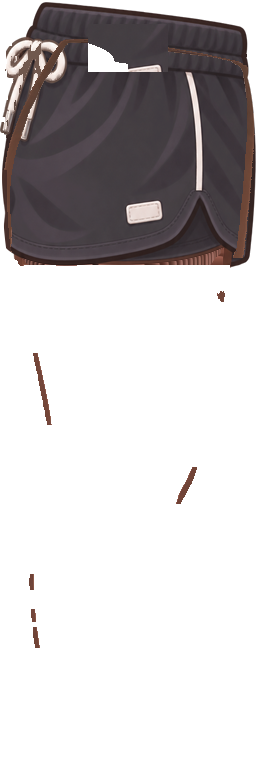
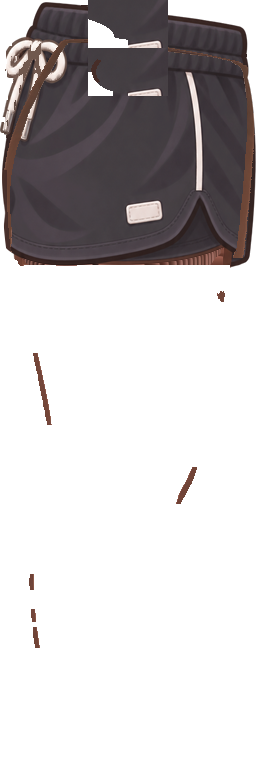
fix: 달리기 엉덩이 잇기 칸을 남녀로 나누고 남자 칸 등 뒤를 둥글게 외곽선을 입힌다 [S15P31A207-300]
- 남녀 리그가 엉덩이 잇기 메시를 다르게 휘어(표지 색 렌더: 남자는 이 메시가 뒤 실루엣을 만들고, 여자는 등 쪽이 다리 윗부분 안쪽에 겹친다)
  칸을 나눈다: 여자 x 88~167·y 0~47, 남자 y 48~95. RivHipConnection은 여자·남자 riv 꼭짓점 v를 각각 옮긴다(파일은 승인본 그대로).
  판정 렌더 retarget_rml은 성별을 받는다.
- 여자 칸은 지금 모양(등 쪽 곡선 깎기, 외곽선 없음). 남자 칸은 등 아래 모서리만 조금 깎고(여자처럼 깎으면 배경 삼각형) 등 가운데 둘레에
  짙은 외곽선을 칠해 뒤 허리 계단·홈을 둥근 외곽선으로 바꾼다.

Changed region(s): [[0.3438, 0.0, 0.6562, 0.125]]

diff --git a/android/core/avatar/src/main/java/com/a207/runkk/app/core/avatar/RivHipConnection.kt b/android/core/avatar/src/main/java/com/a207/runkk/app/core/avatar/RivHipConnection.kt
@@ -6,14 +6,16 @@ import java.nio.ByteOrder
 /**
  * 달리기 엉덩이 잇기 메시(Image 「Cloth textured hip connection」, 타원 윤곽 꼭짓점 17개)가 하의 달리기 다리 텍스처(run_leg)의 어느 칸을
  * 쓸지 바꾼다(판정 round1 C). 승인 riv는 천 가운데 조각(v 약 0.209~0.271 = y 160~208)을 써서 엉덩이 뒷면에 외곽선이 없고, 같은 칸을
- * 앞 다리 메시도 허벅지에 써서 거기에 외곽선을 그릴 수 없었다. 꼭짓점 v만 [V_SHIFT](136/768)만큼 위로 옮겨, 다리 메시가 화면에 쓰지
- * 않는 칸(y 24~72)을 쓰게 한다. 하의 레이어는 그 칸에 원래 조각과 등 쪽 외곽선을 그려 둔다(파이프라인 `outfit_pipeline/hip.py`).
+ * 앞 다리 메시도 허벅지에 써서 거기에 외곽선을 그릴 수 없었다. 꼭짓점 v만 위로 옮겨 다리 메시가 화면에 쓰지 않는 칸을 쓰게 한다:
+ * 남녀 리그가 이 메시를 다르게 휘어 칸을 나눈다(여자 y 0~47 [FEMALE_V_SHIFT], 남자 y 48~95 [MALE_V_SHIFT]). 하의 레이어는 그 칸에
+ * 원래 조각을 옮기고 등 쪽을 깎아 둔다(파이프라인 `outfit_pipeline/hip.py`).
  * 파일은 승인본(SHA 시험) 그대로 두고 읽은 바이트에서 바꾼다([RivGroundShadow]와 같은 방식). 위치 표는 파이프라인
  * `vertex_v_offsets`가 riv에서 찾은 값이고(파이썬 시험이 이 표와 맞는지 본다), 바꾸기 전 값이 승인 범위(0.2~0.28)가 아니면 그 파일은
  * 그대로 둔다.
  */
 internal object RivHipConnection {
-    const val V_SHIFT = 0.17708333333333334f
+    const val FEMALE_V_SHIFT = 0.20833333333333334f
+    const val MALE_V_SHIFT = 0.14583333333333334f
 
     /** avatar_run_approved.riv(여자 달리기) 꼭짓점 v 위치(바이트, float32 리틀엔디언). */
     internal val FEMALE_OFFSETS = intArrayOf(
@@ -31,9 +33,10 @@ internal object RivHipConnection {
 
     /** [riv]가 승인 달리기 riv면 엉덩이 잇기 꼭짓점 v를 옮긴다(바로 고친다). 아니면 그대로 둔다. */
     fun retargetInPlace(riv: ByteArray) {
-        val offsets = listOf(FEMALE_OFFSETS, MALE_OFFSETS).firstOrNull { matches(riv, it) } ?: return
+        val (offsets, shift) = listOf(FEMALE_OFFSETS to FEMALE_V_SHIFT, MALE_OFFSETS to MALE_V_SHIFT)
+            .firstOrNull { matches(riv, it.first) } ?: return
         val buffer = ByteBuffer.wrap(riv).order(ByteOrder.LITTLE_ENDIAN)
-        offsets.forEach { buffer.putFloat(it, buffer.getFloat(it) - V_SHIFT) }
+        offsets.forEach { buffer.putFloat(it, buffer.getFloat(it) - shift) }
     }
 
     private fun matches(riv: ByteArray, offsets: IntArray): Boolean {

diff --git a/android/core/avatar/src/test/kotlin/com/a207/runkk/app/core/avatar/RivHipConnectionTest.kt b/android/core/avatar/src/test/kotlin/com/a207/runkk/app/core/avatar/RivHipConnectionTest.kt
@@ -12,10 +12,10 @@ class RivHipConnectionTest {
     private val raw = File("src/main/res/raw")
 
     @Test
-    fun `달리기 riv 두 개는 엉덩이 잇기 꼭짓점 v 17개만 V_SHIFT만큼 줄고 나머지 바이트는 그대로다`() {
-        for ((name, offsets) in listOf(
-            "avatar_run_approved" to RivHipConnection.FEMALE_OFFSETS,
-            "avatar_male_run" to RivHipConnection.MALE_OFFSETS
+    fun `달리기 riv 두 개는 엉덩이 잇기 꼭짓점 v 17개만 성별 칸만큼 줄고 나머지 바이트는 그대로다`() {
+        for ((name, offsets, shift) in listOf(
+            Triple("avatar_run_approved", RivHipConnection.FEMALE_OFFSETS, RivHipConnection.FEMALE_V_SHIFT),
+            Triple("avatar_male_run", RivHipConnection.MALE_OFFSETS, RivHipConnection.MALE_V_SHIFT)
         )) {
             val original = File(raw, "$name.riv").readBytes()
             val patched = original.copyOf().also(RivHipConnection::retargetInPlace)
@@ -25,7 +25,7 @@ class RivHipConnectionTest {
             offsets.forEach {
                 val v = before.getFloat(it)
                 assertTrue(v in 0.2f..0.28f, "$name 원래 v $v")
-                assertEquals(v - RivHipConnection.V_SHIFT, after.getFloat(it), 1e-6f)
+                assertEquals(v - shift, after.getFloat(it), 1e-6f)
             }
             val allowed = offsets.flatMap { (it until it + 4).toList() }.toSet()
             assertEquals(emptyList(), original.indices.filter { original[it] != patched[it] && it !in allowed })

diff --git a/android/core/avatar/src/test/kotlin/com/a207/runkk/app/core/avatar/OutfitAssetSpecTest.kt b/android/core/avatar/src/test/kotlin/com/a207/runkk/app/core/avatar/OutfitAssetSpecTest.kt
@@ -266,12 +266,12 @@ class OutfitAssetSpecTest {
                     val pixels = IntArray(image.width * image.height)
                     image.getPixels(pixels, 0, image.width, 0, 0, image.width, image.height)
                     val holes = StrayPixels.holes(pixels, image.width, image.height)
-                    // 달리기 다리의 엉덩이 잇기 칸(x 88~167, y 24~71)은 등 아래를 일부러 깎는다(파이프라인 hip.hip_box, 판정 round3 C)
+                    // 달리기 다리의 엉덩이 잇기 칸(남녀 x 88~167, y 0~95)은 등 아래를 일부러 깎는다(파이프라인 hip.hip_box, 판정 round3 C)
                     val hip = slot == OutfitSlot.RUN_LEG
                     val count = holes.indices.count { i ->
                         val x = i % image.width
                         val y = i / image.width
-                        val inHip = hip && x in 88 until 168 && y in 24 until 72
+                        val inHip = hip && x in 88 until 168 && y in 0 until 96
                         holes[i] && !inHip && allowed.all { on(it, x, y) }
                     }
                     if (count > 0) found["${file.parentFile!!.name}/${file.name} $template"] = count

diff --git a/android/core/avatar/tools/outfit-pipeline/outfit_pipeline/hip.py b/android/core/avatar/tools/outfit-pipeline/outfit_pipeline/hip.py
@@ -1,12 +1,13 @@
-"""달리기 엉덩이 잇기 메시(판정 round1 C).
+"""달리기 엉덩이 잇기 메시(판정 round1~5 C).
 
 승인 달리기 riv(avatar_run_approved, avatar_male_run)의 Image 「Cloth textured hip connection」은 타원 메시(윤곽 꼭짓점 16개)로 하의
 달리기 다리 텍스처(run_leg, 256x768)의 가운데 조각(u 0.344~0.656, v 약 0.209~0.271 = x 88~168, y 160~208)을 몸통과 다리 사이에
-붙인다. 그 조각은 천 가운데라 외곽선이 없고, 같은 자리를 앞쪽 다리 메시도 허벅지에 써서 거기에 외곽선을 그리면 허벅지에도 선이 생긴다.
+붙인다. 그 조각은 천 가운데라 외곽선이 없고, 같은 자리를 앞쪽 다리 메시도 허벅지에 써서 거기를 고치면 허벅지도 바뀐다.
 
-그래서 메시 v만 다리 메시가 화면에 쓰지 않는 칸(텍스처 위쪽 y 0~95, 몸통·엉덩이에 가려 보이지 않는다. 판정 렌더 4프레임 × 남녀로
-16x16 칸마다 실측)으로 옮기고([V_SHIFT]), 하의마다 그 칸에 원래 조각을 옮겨 그린 뒤 타원 둘레에 짙은 외곽선을 그린다([paint_hip]).
-riv 파일은 승인본(SHA 시험) 그대로 두고, 앱은 읽은 바이트에서 그 꼭짓점 v만 바꾼다(RivHipConnection, [vertex_v_offsets]로 만든 표).
+그래서 메시 v만 다리 메시가 화면에 쓰지 않는 칸(텍스처 위쪽 x 88~167, y 0~95: 판정 렌더 4프레임 × 남녀로 16x16 칸마다 실측)으로 옮기고,
+남녀 리그가 이 메시를 다르게 휘므로 칸을 나눈다(여자 y 0~47, 남자 y 48~95, [TARGET_TOPS]). 하의마다 두 칸에 원래 조각을 옮기고([paint_hip])
+등 쪽을 깎는다([carve_hip]). riv 파일은 승인본(SHA 시험) 그대로 두고, 앱은 읽은 바이트에서 그 꼭짓점 v만 바꾼다(RivHipConnection,
+[vertex_v_offsets]로 만든 표). 판정 렌더는 Rive 원본의 같은 꼭짓점을 옮긴다([retarget_rml]).
 """
 
 from __future__ import annotations
@@ -22,15 +23,19 @@ from outfit_pipeline.riv_schema import PROPERTY_FORMAT
 
 IMAGE_NAME = "Cloth textured hip connection"
 SOURCE = (88, 160, 168, 208)  # 원래 메시가 쓰던 텍스처 칸(x0, y0, x1, y1)
-TARGET_TOP = 24  # 옮길 칸 위 끝(텍스처 y). 아래 끝은 TARGET_TOP + 48
+# 옮길 칸 위 끝(텍스처 y, 아래 끝은 + 48). 남녀 리그가 이 메시를 다르게 휘어 화면에서 맡는 몫이 달라(여자는 다리 윗부분 안쪽에 겹치고
+# 남자는 뒤 실루엣을 만든다) 남녀 칸을 나눈다(판정 round5)
+TARGET_TOPS = {"female": 0, "male": 48}
+RIV_GENDER = {"avatar_run_approved.riv": "female", "avatar_male_run.riv": "male"}
 HEIGHT = 768
-V_SHIFT = (SOURCE[1] - TARGET_TOP) / HEIGHT  # 꼭짓점 v에서 뺄 값(160 → 24)
+V_SHIFTS = {g: (SOURCE[1] - top) / HEIGHT for g, top in TARGET_TOPS.items()}  # 꼭짓점 v에서 뺄 값
 _TOC_FORMAT = ("u", "s", "f", "c")
 
 
 def hip_box() -> tuple[int, int, int, int]:
-    """엉덩이 잇기 메시가 쓰는 칸(x0, y0, x1, y1, 끝 제외)."""
-    return (SOURCE[0], TARGET_TOP, SOURCE[2], TARGET_TOP + SOURCE[3] - SOURCE[1])
+    """엉덩이 잇기 메시가 쓰는 칸(남녀 둘을 덮는 상자, x0, y0, x1, y1, 끝 제외)."""
+    height = SOURCE[3] - SOURCE[1]
+    return (SOURCE[0], min(TARGET_TOPS.values()), SOURCE[2], max(TARGET_TOPS.values()) + height)
 
 
 def vertex_v_offsets(data: bytes) -> list[tuple[int, float]]:
@@ -107,16 +112,16 @@ def vertex_v_offsets(data: bytes) -> list[tuple[int, float]]:
     ]
 
 
-def retarget(data: bytes) -> bytes:
-    """엉덩이 잇기 메시 꼭짓점 v를 [V_SHIFT]만큼 위로 옮긴 riv 사본."""
+def retarget(data: bytes, gender: str) -> bytes:
+    """엉덩이 잇기 메시 꼭짓점 v를 그 성별 칸으로([V_SHIFTS]) 옮긴 riv 사본."""
     out = bytearray(data)
     for offset, value in vertex_v_offsets(data):
-        struct.pack_into("<f", out, offset, value - V_SHIFT)
+        struct.pack_into("<f", out, offset, value - V_SHIFTS[gender])
     return bytes(out)
 
 
 def paint_hip(layer: Image.Image) -> Image.Image:
-    """달리기 다리 레이어의 옮긴 칸(y [TARGET_TOP]~+48)에 원래 조각(SOURCE)을 그대로 옮긴다. 원래 조각이 비어 있으면(하의가 없는
+    """달리기 다리 레이어의 남녀 칸([TARGET_TOPS], 각 48행)에 원래 조각(SOURCE)을 그대로 옮긴다. 원래 조각이 비어 있으면(하의가 없는
     곳) 그대로 둔다. 타원 둘레에 외곽선은 그리지 않는다: 엉덩이 뒷면 실루엣은 다리 메시 윗부분(텍스처 y 약 100~280 왼쪽 가장자리)이
     만들고 이 메시는 그 안쪽에 겹쳐, 타원 외곽선이 옷 안쪽에 짙은 호로 떠 보였다(판정 round3). 뒷면 모양은 [round_hip_corner]가 다룬다."""
     array = np.array(layer.convert("RGBA"))
@@ -124,7 +129,8 @@ def paint_hip(layer: Image.Image) -> Image.Image:
     patch = array[y0:y1, x0:x1].copy()
     if not (patch[..., 3] > 0).any():
         return layer
-    array[TARGET_TOP : TARGET_TOP + (y1 - y0), x0:x1] = patch
+    for top in TARGET_TOPS.values():
+        array[top : top + (y1 - y0), x0:x1] = patch
     return Image.fromarray(array, "RGBA")
 
 
@@ -168,15 +174,15 @@ def round_hip_corner(layer: Image.Image) -> Image.Image:
     return Image.fromarray(array, "RGBA")
 
 
-def retarget_rml(text: str) -> str:
-    """Rive 원본(scene.rml)에서 엉덩이 잇기 메시 꼭짓점 v를 [V_SHIFT]만큼 옮긴다(판정 렌더가 앱과 같은 메시를 쓰게)."""
+def retarget_rml(text: str, gender: str) -> str:
+    """Rive 원본(scene.rml)에서 엉덩이 잇기 메시 꼭짓점 v를 그 성별 칸으로([V_SHIFTS]) 옮긴다(판정 렌더가 앱과 같은 메시를 쓰게)."""
     import re
 
     start = text.index(f'<Image name="{IMAGE_NAME}"')
     end = text.index("</Mesh>", start)
 
     def shift(match: re.Match[str]) -> str:
-        return f'v="{float(match.group(1)) - V_SHIFT!r}"'
+        return f'v="{float(match.group(1)) - V_SHIFTS[gender]!r}"'
 
     return text[:start] + re.sub(r'v="([0-9.eE+-]+)"', shift, text[start:end]) + text[end:]
 
@@ -266,23 +272,41 @@ CARVE_FULL = 0.5  # 이 높이 아래에서는 [CARVE_BACK]까지 깎는다
 CARVE_BACK = -0.35  # 타원 가로 위치(-1 등 끝 ~ 1 앞 끝)가 이보다 등 쪽이면 깎는다(화면 블록의 곧은 뒷면·뒤 허리 모서리)
 
 
+MALE_CARVE = 0.8  # 남자 칸 등 아래 사분면에서 이보다 바깥만 깎는다
+MALE_RIM = (0.8, 0.93)  # 남자 칸 등 외곽선 띠(타원 반지름 비율, 메시 윤곽 16각형 안쪽)
+MALE_ARC = (150, 215)  # 남자 칸 등 외곽선을 칠하는 둘레 각(도): 남자 리그에서 이 메시가 뒤 실루엣을 만드는 등 가운데
+
+
+def _ellipse_axes(height: int, width: int) -> tuple[np.ndarray, np.ndarray]:
+    yy, xx = np.mgrid[0:height, 0:width]
+    return (xx - (width - 1) / 2) / (width / 2), (yy - (height - 1) / 2) / (height / 2)
+
+
 def carve_hip(layer: Image.Image) -> Image.Image:
-    """엉덩이 잇기 칸(TARGET)의 등 쪽([CARVE_BACK]보다 등 쪽 전체와 등 아래 사분면 바깥)을 투명하게 깎는다(판정 round3·4 C). 메시가
-    타원이어도 뼈 변형으로 화면에서는 각진 블록이라, 그 등 쪽이 다리 윗부분보다 튀어나와 곧은 뒷면·각진 모서리·밝은 슬래브로 보였다.
-    깎은 자리에는 그 뒤 다리 메시 윗부분(맨몸 다리 외곽선을 입은 하의 엉덩이)이 보여 뒷면 실루엣이 다리로 이어진다. 깎은 경계와 둘레에는
-    외곽선을 그리지 않는다(옷 안쪽 호·짙은 쐐기로 떠 보였다)."""
+    """엉덩이 잇기 칸(남녀 각각)의 등 쪽(높이 -0.2부터 0.5까지 등 끝에서 가로 -0.35로 부드럽게 들어오는 곡선보다 등 쪽)과 등 아래 사분면
+    바깥을 투명하게 깎는다(판정 round3~5 C). 메시가 타원이어도 뼈 변형으로 화면에서는 각진 블록이라 텍스처 알파로 깎는다. 둘레 외곽선은
+    그리지 않는다: 픽셀 좌표 부호 렌더로 보니 남녀 모두 뒤 실루엣의 대부분은 다리 메시 윗부분(텍스처 왼쪽 위 x 7~57, y 54~246)이 만들고
+    이 메시의 등 쪽은 그 안쪽에 겹쳐, 둘레 외곽선이 옷 안쪽 호로 떠 보였다(round3, round6 남자 칸 시험). 남녀 칸은 나뉘어 있어(TARGET_TOPS)
+    성별마다 다르게 깎을 수 있다."""
     array = np.array(layer.convert("RGBA"))
     x0, y0, x1, y1 = SOURCE
-    height = y1 - y0
-    region = array[TARGET_TOP : TARGET_TOP + height, x0:x1]
-    if not (region[..., 3] > 0).any():
-        return layer
-    yy, xx = np.mgrid[0:height, 0 : x1 - x0]
-    nx = (xx - (x1 - x0 - 1) / 2) / ((x1 - x0) / 2)
-    ny = (yy - (height - 1) / 2) / (height / 2)
-    # 깎는 경계는 위로 갈수록 등 끝(-1)으로 부드럽게 물러나는 곡선이다: 맨 위까지 깎으면 상의 밑단과 다리 사이에 배경 삼각형이
-    # 뚫렸고, 곧은 세로선으로 깎다 위에서 멈추면 「ㄱ」자 홈이 생겼다(판정 round4)
+    height, width = y1 - y0, x1 - x0
+    nx, ny = _ellipse_axes(height, width)
+    radius = nx * nx + ny * ny
     t = np.clip((ny - CARVE_TOP) / (CARVE_FULL - CARVE_TOP), 0, 1)
     boundary = -1 + (CARVE_BACK + 1) * (1 - (1 - t) ** 2)
-    region[(nx < boundary) | ((nx < 0) & (ny > 0) & (nx * nx + ny * ny > CARVE))] = 0
+    quadrant = (nx < 0) & (ny > 0) & (radius > CARVE)
+    # 남자 리그는 이 메시 등 아래 사분면 뒤에 다리가 덜 와서, 여자와 같이 깎으면 배경 삼각형이 비쳤다: 모서리만 조금 깎는다
+    cuts = {"female": (nx < boundary) | quadrant, "male": (nx < 0) & (ny > 0) & (radius > MALE_CARVE)}
+    angle = np.degrees(np.arctan2(ny, nx)) % 360
+    rim = (radius <= MALE_RIM[1] ** 2) & (radius > MALE_RIM[0] ** 2) & (angle >= MALE_ARC[0]) & (angle <= MALE_ARC[1])
+    for gender, top in TARGET_TOPS.items():
+        region = array[top : top + height, x0:x1]
+        if not (region[..., 3] > 0).any():
+            continue
+        region[cuts[gender]] = 0
+        if gender == "male":
+            band = rim & ~cuts[gender] & (region[..., 3] > 0)
+            region[band, :3] = CORNER_OUTLINE
+            region[band, 3] = 255
     return Image.fromarray(array, "RGBA")

diff --git a/android/core/avatar/tools/outfit-pipeline/tests/test_hip.py b/android/core/avatar/tools/outfit-pipeline/tests/test_hip.py
@@ -15,8 +15,8 @@ from outfit_pipeline.cli import OUTFITS, RAW
 from outfit_pipeline.hip import (
     CORNER_ROWS,
     SOURCE,
-    TARGET_TOP,
-    V_SHIFT,
+    TARGET_TOPS,
+    V_SHIFTS,
     carve_hip,
     finish_run_leg,
     outline_leg_edge,
@@ -40,17 +40,18 @@ def test_app_table_matches_the_riv(riv: str, table: str) -> None:
     body = re.search(r"(?<![A-Z_])" + table + r" = intArrayOf\(([^)]*)\)", source)
     assert body is not None
     assert [int(x) for x in re.findall(r"\d+", body.group(1))] == [o for o, _ in offsets]
-    assert f"V_SHIFT = {V_SHIFT!r}f" in source
+    gender = "FEMALE" if "approved" in riv else "MALE"
+    assert f"{gender}_V_SHIFT = {V_SHIFTS[gender.lower()]!r}f" in source
 
 
 def test_retarget_moves_only_the_hip_vertex_v() -> None:
     data = (RAW / "avatar_run_approved.riv").read_bytes()
-    out = retarget(data)
+    out = retarget(data, "female")
     offsets = vertex_v_offsets(data)
     changed = {i for i in range(len(data)) if data[i] != out[i]}
     assert changed <= {o + k for o, _ in offsets for k in range(4)}
     for offset, value in offsets:
-        assert struct.unpack_from("<f", out, offset)[0] == pytest.approx(value - V_SHIFT, abs=1e-6)
+        assert struct.unpack_from("<f", out, offset)[0] == pytest.approx(value - V_SHIFTS["female"], abs=1e-6)
 
 
 def test_retarget_rml_shifts_only_the_hip_mesh() -> None:
@@ -58,8 +59,8 @@ def test_retarget_rml_shifts_only_the_hip_mesh() -> None:
         '<Image name="Other"><Mesh><ContourMeshVertex v="0.5" /></Mesh></Image>'
         '<Image name="Cloth textured hip connection"><Mesh><ContourMeshVertex u="0.5" v="0.24" /></Mesh></Image>'
     )
-    out = retarget_rml(text)
-    assert 'v="0.5"' in out and f'v="{0.24 - V_SHIFT!r}"' in out
+    out = retarget_rml(text, "male")
+    assert 'v="0.5"' in out and f'v="{0.24 - V_SHIFTS["male"]!r}"' in out
 
 
 def test_paint_hip_copies_the_patch_without_an_inner_arc() -> None:
@@ -67,7 +68,8 @@ def test_paint_hip_copies_the_patch_without_an_inner_arc() -> None:
     x0, y0, x1, y1 = SOURCE
     layer[y0:y1, x0:x1] = (200, 180, 140, 255)
     out = np.array(paint_hip(Image.fromarray(layer, "RGBA")))
-    assert (out[TARGET_TOP : TARGET_TOP + (y1 - y0), x0:x1] == layer[y0:y1, x0:x1]).all()
+    for top in TARGET_TOPS.values():
+        assert (out[top : top + (y1 - y0), x0:x1] == layer[y0:y1, x0:x1]).all()
 
 
 def test_round_hip_corner_rounds_the_back_and_outlines_the_new_edge() -> None:
@@ -100,10 +102,12 @@ def test_committed_run_legs_are_finished(key: str) -> None:
 def test_carve_hip_opens_the_back_bottom_corner() -> None:
     layer = np.zeros((768, 256, 4), np.uint8)
     x0, y0, x1, y1 = SOURCE
-    layer[TARGET_TOP : TARGET_TOP + (y1 - y0), x0:x1] = (200, 180, 140, 255)
+    for top in TARGET_TOPS.values():
+        layer[top : top + (y1 - y0), x0:x1] = (200, 180, 140, 255)
     out = np.array(carve_hip(Image.fromarray(layer, "RGBA")))
-    assert out[TARGET_TOP + (y1 - y0) - 2, x0 + 2, 3] == 0  # 등 아래 모서리는 깎였다
-    assert out[TARGET_TOP + 2, x1 - 3, 3] == 255  # 앞 위는 그대로
+    for top in TARGET_TOPS.values():
+        assert out[top + (y1 - y0) - 2, x0 + 2, 3] == 0  # 등 아래 모서리는 깎였다
+        assert out[top + 2, x1 - 3, 3] == 255  # 앞 위는 그대로
 
 
 def test_outline_leg_edge_paints_the_body_outline_on_long_bottoms() -> None:

diff --git a/android/core/avatar/OUTFIT_SPEC.md b/android/core/avatar/OUTFIT_SPEC.md
@@ -55,7 +55,7 @@ riv 네 파일(`res/raw`, 승인본 SHA 고정, 읽기만)의 아트보드는 80
 | 민소매 몸통 옆 맨살 (판정 round4) | 표지 색 렌더(텍셀마다 (층, x, y)를 색으로 그려 렌더 픽셀의 출처를 읽음)로 singlet 밑단 옆 짧은 짙은 획과 밝은 점이 맨몸 아틀라스 x 100~124·376~392, y 256~295의 몸통 옆 외곽선과 그 안쪽 맨살 띠, 밑단과 하의 허리 사이 맨살임을 확인했다. singlet 서기 레이어는 행마다(y 200~295) 상의 옆 가장자리 바깥의 맨살(몸통 옆 외곽선 앞까지 6px 이하)을 상의 천 색으로, 밑단 아래 하의 허리(y 296)까지의 맨몸(빈 곳에서 4px 안의 몸통 옆 외곽선 제외)을 그 옆 칸 밝은 천 가운데값으로 덮는다(`stand_fix.close_side_skin`, `stand-fix`) |
 | 반팔·민소매 몸통 옆 외곽선 (판정 round3) | 반팔·민소매(`maleTopSurface` 1) 서기 레이어는 소매 끝 아래 몸통 옆(y 185~301) 행마다 바깥에서 처음 만나는 상의 가장자리 6px 안에서, 안쪽 짙은 옆 외곽선(밝기 110 미만)보다 바깥에 박힌 밝은 천 점(외곽선보다 60 넘게 밝음)이 없다. 체형 100에서 몸통 옆이 늘면 짙은 외곽선 사이 흰 점이 사다리 획으로 보였다(base s100 겨드랑이 아래). `stand-fix`가 그 외곽선 색으로 칠한다(`stand_fix.solid_side_outline`) |
 | 남자 서기 긴소매 이음매 (판정 round3) | 남자 서기 riv의 긴소매 메시(Image 「Long sleeve wardrobe top」)는 팔 띠와 몸통 띠가 이음매 열에 같은 (u, v)·무게의 꼭짓점을 따로 둔다. 겨드랑이 아래(v 0.26~0.35) 몸통 쪽 꼭짓점이 0.1~1.2 단위 안쪽에 있어(바탕 자세와 체형 애니메이션 x 키) 소매와 몸통 사이로 배경이 가는 세로 줄로 비쳤다. 앱은 읽은 riv 바이트에서 몸통 쪽 값(float32 100개)을 짝인 팔 쪽 값으로 바꾼다(`RivSleeveSeam`, 파일은 승인본 그대로, 표는 `outfit_pipeline/seam.py`의 `copy_pairs`). 반팔·민소매 표면 메시(「Existing wardrobe top」)는 몸통 띠 바깥 끝이 팔 띠 안쪽 끝과 바탕 자세에서 0.5~1 단위 겹치는데, 체형 x 키(medium·fuller)에서 오른쪽 아래 행의 겹침이 0 아래로 줄어 base·singlet 남자 체형 100 겨드랑이 아래에 가는 틈이 생겼다. 겹침이 바탕보다 줄어든 키 24개만 팔 쪽 키 + 바탕 겹침으로 바꾼다(`OVERLAP_TARGETS`, `seam.overlap_patch`). 판정 렌더는 Rive 원본에서 같은 값을 바꾼다(`close_seam_rml`, `keep_overlap_rml`) |
-| 달리기 엉덩이 잇기·다리 실루엣 (판정 round1~3 C) | 달리기 riv의 Image 「Cloth textured hip connection」(타원 메시)은 run_leg 텍스처 가운데 조각(x 88~168, y 160~208)을 써서 엉덩이 뒷면에 외곽선이 없었고 같은 칸을 앞 다리 메시도 허벅지에 쓴다. 앱은 읽은 riv 바이트에서 그 꼭짓점 v만 136/768만큼 위로 옮겨(`RivHipConnection`, 파일은 승인본 그대로) 다리 메시가 화면에 쓰지 않는 칸(y 24~72)을 쓰게 하고, 판정 렌더는 Rive 원본의 같은 꼭짓점을 옮긴다(`retarget_rml`). 다리 메시는 맨몸 다리 실루엣 모양이라(16x16 칸과 픽셀 좌표 부호 렌더로 실측: 텍스처 행마다 화면 뒷면 경계가 맨몸 다리 왼쪽 끝과 같다) 하의가 맨몸 다리보다 넓은 곳은 화면에 나오지 않는다. 그래서 하의·맨몸 달리기 다리 레이어(`hip.finish_run_leg`)는 (1) 엉덩이 잇기 칸에 원래 조각을 그대로 옮기고(평균 색으로 맞추면 그늘이 사라져 모든 반바지에 평평한 사각 블록이 생겼다, round5), 타원의 등 쪽(높이 -0.2부터 0.5까지 등 끝에서 가로 위치 -0.35로 부드럽게 들어오는 곡선보다 등 쪽, 곧은 세로선으로 깎으면 「ㄱ」자 홈이 생겼다)과 등 아래 사분면 바깥((x/rx)²+(y/ry)² > 0.42)을 투명하게 깎으며 외곽선은 그리지 않고(옷 안쪽 호·짙은 쐐기로 떠 보였다, round4), 다리 윗부분(y 90~279)에서 맨몸이 하의 뒤로 비치는 곳은 하의 색으로 덮고(leggings 회색 덧조각), (2) 다리 텍스처 y 170~265의 뒷면을 x 2→12 사분 타원 곡선으로 깎아(곧은 뒷면이 y 264에서 10px 꺾이던 모서리) 새 가장자리 5px을 맨몸 외곽선 색으로 칠하고, (3) 하의는 맨몸 다리 외곽선(실루엣 가장자리 7px 안 짙은 픽셀) 위 하의 픽셀을 그 외곽선 색으로 바꾼다(wide·jogger 외곽선, leggings 무릎 비침). 16번 구멍 검사는 엉덩이 잇기 칸을, 17번 달리기 다리 외곽선 기준은 그 칸과 깎은 뒷면(y 170~265, x < 24)을 뺀다 |
+| 달리기 엉덩이 잇기·다리 실루엣 (판정 round1~3 C) | 달리기 riv의 Image 「Cloth textured hip connection」(타원 메시)은 run_leg 텍스처 가운데 조각(x 88~168, y 160~208)을 써서 엉덩이 뒷면에 외곽선이 없었고 같은 칸을 앞 다리 메시도 허벅지에 쓴다. 앱은 읽은 riv 바이트에서 그 꼭짓점 v만 옮겨(`RivHipConnection`, 파일은 승인본 그대로) 다리 메시가 화면에 쓰지 않는 칸을 쓰게 한다. 남녀 리그가 이 메시를 다르게 휘어 칸을 나눈다(여자 x 88~167·y 0~47, v −160/768; 남자 y 48~95, v −112/768). 판정 렌더는 Rive 원본의 같은 꼭짓점을 성별대로 옮긴다(`retarget_rml(text, gender)`). 다리 메시는 맨몸 다리 실루엣 모양이라(16x16 칸과 픽셀 좌표 부호 렌더로 실측: 텍스처 행마다 화면 뒷면 경계가 맨몸 다리 왼쪽 끝과 같다) 하의가 맨몸 다리보다 넓은 곳은 화면에 나오지 않는다. 그래서 하의·맨몸 달리기 다리 레이어(`hip.finish_run_leg`)는 (1) 남녀 엉덩이 잇기 칸에 원래 조각을 그대로 옮기고(평균 색으로 맞추면 그늘이 사라져 모든 반바지에 평평한 사각 블록이 생겼다, round5), 타원의 등 쪽(높이 -0.2부터 0.5까지 등 끝에서 가로 위치 -0.35로 부드럽게 들어오는 곡선보다 등 쪽, 곧은 세로선으로 깎으면 「ㄱ」자 홈이 생겼다)과 등 아래 사분면 바깥((x/rx)²+(y/ry)² > 0.42)을 투명하게 깎으며 외곽선은 그리지 않고(여자 리그에서는 이 메시 등 쪽이 다리 윗부분 안쪽에 겹쳐 옷 안쪽 호로 떠 보였다), 남자 칸은 등 아래 사분면 바깥 0.8만 조금 깎고(여자처럼 깎으면 배경 삼각형이 비쳤다) 등 가운데 둘레(150~215도, 반지름 0.8~0.93)를 짙은 외곽선으로 칠한다(남자 리그에서는 이 메시가 뒤 실루엣을 만든다, 표지 색 렌더로 확인), 다리 윗부분(y 90~279)에서 맨몸이 하의 뒤로 비치는 곳은 하의 색으로 덮고(leggings 회색 덧조각), (2) 다리 텍스처 y 170~265의 뒷면을 x 2→12 사분 타원 곡선으로 깎아(곧은 뒷면이 y 264에서 10px 꺾이던 모서리) 새 가장자리 5px을 맨몸 외곽선 색으로 칠하고, (3) 하의는 맨몸 다리 외곽선(실루엣 가장자리 7px 안 짙은 픽셀) 위 하의 픽셀을 그 외곽선 색으로 바꾼다(wide·jogger 외곽선, leggings 무릎 비침). 16번 구멍 검사는 엉덩이 잇기 칸을, 17번 달리기 다리 외곽선 기준은 그 칸과 깎은 뒷면(y 170~265, x < 24)을 뺀다 |
 | 달리기 상의·하의 마무리 (판정 round3) | 달리기 상의 몸통·팔 레이어에는 본체와 떨어진 1000px 미만 덩어리가 없다(맨몸 팔 외곽선 조각이 singlet 어깨 뒤 곡선, hoodie 목 곡선으로 떠 보였다). hoodie 달리기 몸통은 행마다 등 쪽 첫 4px 가운데 밝은 곳을 짙은 갈색으로 칠한다(등판 외곽선이 옅었다. 달리기 몸통 메시는 옷 가장자리까지 보인다). jogger 달리기 다리는 허리끈 끝(x 0~29, y 95~154)의 끈·금속 픽셀을 이웃 천 색으로 바꾼다(엉덩이 뒤 짙은 점). `outfit_pipeline/run.py`. hoodie는 달리기 몸통 위 45행의 가는 끝(후드 꼭대기 「ㅅ」자 획)을 지우고 달리기 팔 가장자리 4px에 외곽선을 칠하며 그 안쪽 14px의 밝은 줄을 천 가운데값 쪽으로 누른다. 자동 판별로 외곽선과 가르기 어려운 생성 잔상은 손으로 정한 마스크(`templates/fixes/<key>__<파일>.png`, 흰색 = 지움)로 지운다(high_top 달리기 신발 끈 옆 검은 계단, hoodie 달리기 몸통 후드 꼭대기 날개: 목 옆 「ㅅ」자 뿔, 표지 색 렌더로 그 획이 상의 몸통 텍스처 x 76~200·y 15~40에서 온 것을 확인) |
 | 하의 길이 | 달리기 다리(`run_leg`)의 하의는 기본 반바지 밑단(y 약 250)보다 짧게 끝나지 않는다(맨몸 허벅지의 이음선이 그 위에 있다) |
 | 품질 | 코랄 집업 후드(`top_cherry_vest`) 기준: 외곽선 2px(옷 기본색의 어두운 톤, 검정 아님), 음영 3단, 주름은 관절·지퍼·밑단, 광택·질감 무늬 없음 |
